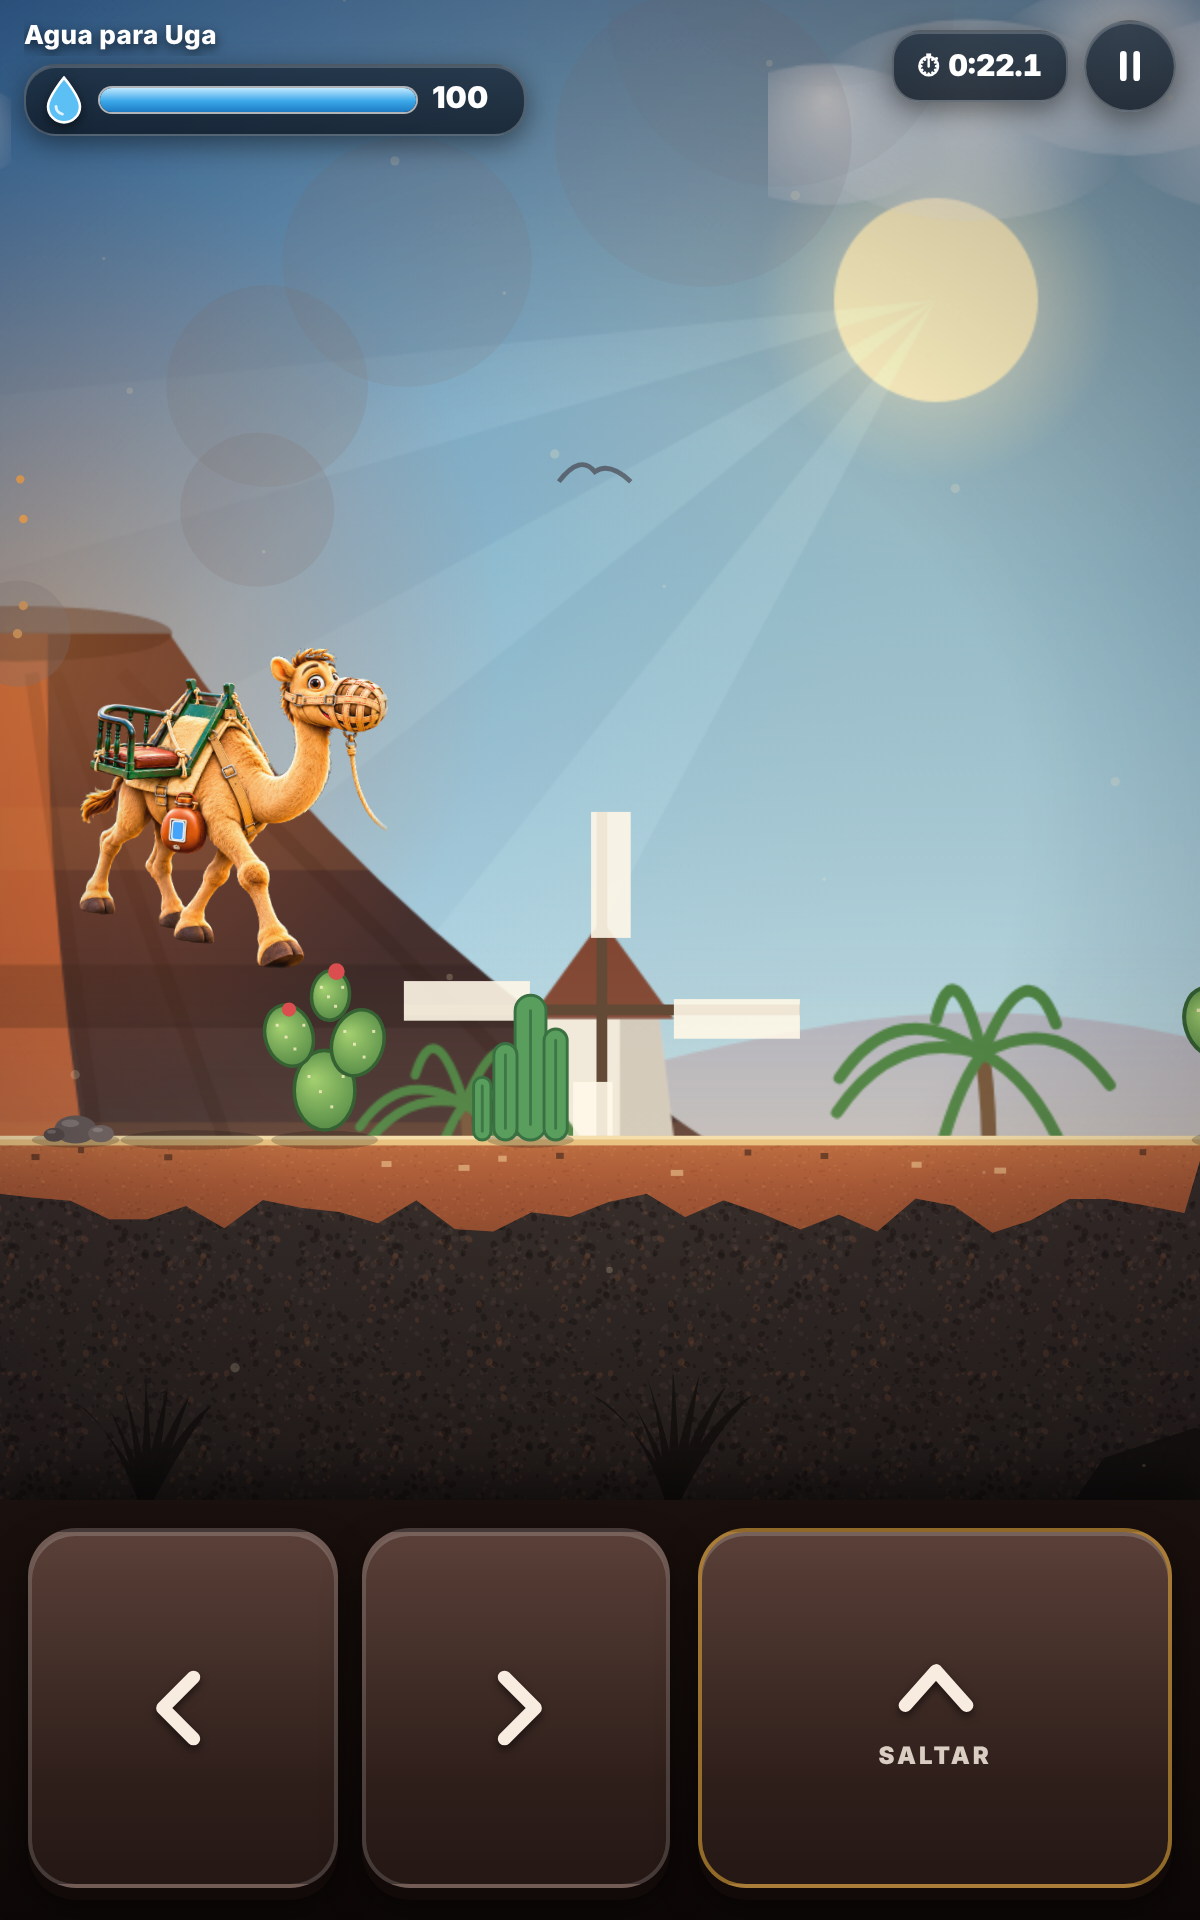
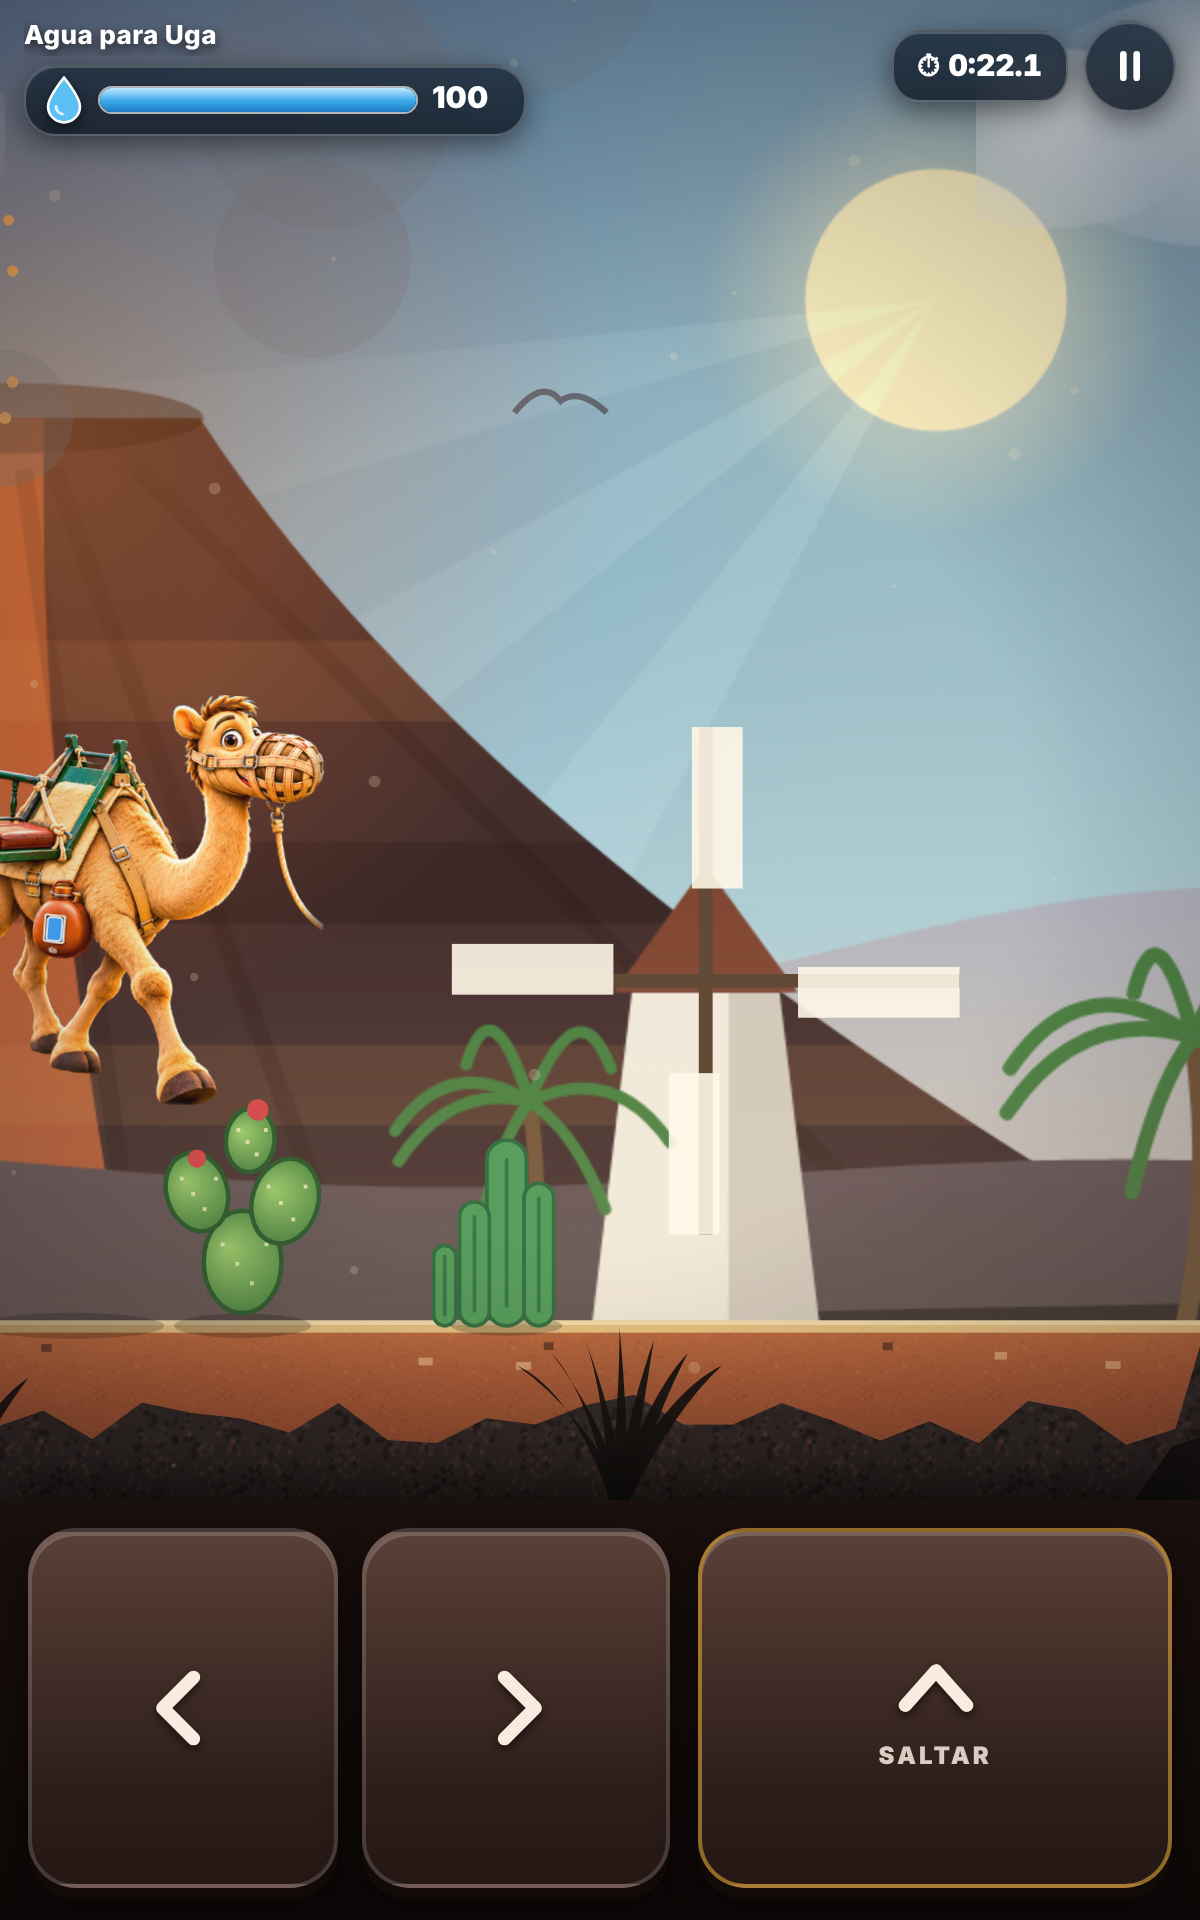
1.8.1: cámara más cercana en vertical (Martín más grande, menos tierra vacía)
Claude-Session: https://claude.ai/code/session_01H2Jf8v1MHtV6zTpVoU4WWj

diff --git a/docs/app/juego.js b/docs/app/juego.js
@@ -155,7 +155,7 @@ function ajustaCanvas() {
   const r = cv.parentNode.getBoundingClientRect(), dpr = Math.min(window.devicePixelRatio || 1, 2.5);
   const w = Math.max(160, Math.round(r.width * dpr)), h = Math.max(120, Math.round(r.height * dpr));
   if (cv.width !== w || cv.height !== h) { cv.width = w; cv.height = h; }
-  const asp = w / h, vw = asp >= 1.4 ? 15 : Math.max(10, 15 - (1.4 - asp) * 9);   // cámara cercana: Martín se ve grande; en vertical, aún más
+  const asp = w / h, vw = asp >= 1.4 ? 15 : Math.max(asp < 1 ? 7.6 : 10, 15 - (1.4 - asp) * 12);   // cámara cercana: Martín se ve grande; en vertical, aún más
   RUN.u = Math.min(w / vw, h / 7.4);
 }
 function dibujar(dt) {
@@ -164,10 +164,10 @@ function dibujar(dt) {
   const W = cv.width, H = cv.height, u = RUN.u, vw = W / u, vh = H / u;
   // cámara: Martín al ~35 % del ancho con un poco de anticipación; vertical suavizado con zona muerta
   const k = 1 - Math.exp(-(dt || 16) / 1000 * 5);
-  let objX = s.x - vw * (W < H ? 0.3 : 0.33) + Math.max(-1, Math.min(1, s.vx / 4)) * 1.4;
+  let objX = s.x - vw * (W < H ? 0.24 : 0.33) + Math.max(-1, Math.min(1, s.vx / 4)) * 1.4;
   objX = Math.max(L.world.min_x - 0.5, Math.min(L.world.max_x - vw + 0.5, objX));
   const piso = s.fase === 'reaparece' ? s.ry : s.y;
-  const idealY = piso - vh * (W < H ? 0.36 : 0.30);
+  const idealY = piso - vh * (W < H ? 0.27 : 0.30);
   if (RUN.camInit !== RUN.idx + ':' + RUN.modo + ':' + RUN.intento) { RUN.camInit = RUN.idx + ':' + RUN.modo + ':' + RUN.intento; RUN.cam.x = objX; RUN.cam.y = idealY; }
   RUN.cam.x += (objX - RUN.cam.x) * Math.min(1, k * 2.4);
   const dz = vh * 0.12; if (idealY - RUN.cam.y > dz) RUN.cam.y += (idealY - dz - RUN.cam.y) * k; else if (RUN.cam.y - idealY > dz) RUN.cam.y += (idealY + dz - RUN.cam.y) * k;

diff --git a/www/juego.js b/www/juego.js
@@ -155,7 +155,7 @@ function ajustaCanvas() {
   const r = cv.parentNode.getBoundingClientRect(), dpr = Math.min(window.devicePixelRatio || 1, 2.5);
   const w = Math.max(160, Math.round(r.width * dpr)), h = Math.max(120, Math.round(r.height * dpr));
   if (cv.width !== w || cv.height !== h) { cv.width = w; cv.height = h; }
-  const asp = w / h, vw = asp >= 1.4 ? 15 : Math.max(10, 15 - (1.4 - asp) * 9);   // cámara cercana: Martín se ve grande; en vertical, aún más
+  const asp = w / h, vw = asp >= 1.4 ? 15 : Math.max(asp < 1 ? 7.6 : 10, 15 - (1.4 - asp) * 12);   // cámara cercana: Martín se ve grande; en vertical, aún más
   RUN.u = Math.min(w / vw, h / 7.4);
 }
 function dibujar(dt) {
@@ -164,10 +164,10 @@ function dibujar(dt) {
   const W = cv.width, H = cv.height, u = RUN.u, vw = W / u, vh = H / u;
   // cámara: Martín al ~35 % del ancho con un poco de anticipación; vertical suavizado con zona muerta
   const k = 1 - Math.exp(-(dt || 16) / 1000 * 5);
-  let objX = s.x - vw * (W < H ? 0.3 : 0.33) + Math.max(-1, Math.min(1, s.vx / 4)) * 1.4;
+  let objX = s.x - vw * (W < H ? 0.24 : 0.33) + Math.max(-1, Math.min(1, s.vx / 4)) * 1.4;
   objX = Math.max(L.world.min_x - 0.5, Math.min(L.world.max_x - vw + 0.5, objX));
   const piso = s.fase === 'reaparece' ? s.ry : s.y;
-  const idealY = piso - vh * (W < H ? 0.36 : 0.30);
+  const idealY = piso - vh * (W < H ? 0.27 : 0.30);
   if (RUN.camInit !== RUN.idx + ':' + RUN.modo + ':' + RUN.intento) { RUN.camInit = RUN.idx + ':' + RUN.modo + ':' + RUN.intento; RUN.cam.x = objX; RUN.cam.y = idealY; }
   RUN.cam.x += (objX - RUN.cam.x) * Math.min(1, k * 2.4);
   const dz = vh * 0.12; if (idealY - RUN.cam.y > dz) RUN.cam.y += (idealY - dz - RUN.cam.y) * k; else if (RUN.cam.y - idealY > dz) RUN.cam.y += (idealY + dz - RUN.cam.y) * k;

diff --git a/docs/app/sw.js b/docs/app/sw.js
@@ -1,7 +1,7 @@
 // Service worker: deja la versión web disponible sin conexión.
 // En la app Android no hace falta (los archivos ya van dentro del APK) y podría servir
 // una versión antigua tras actualizar, así que allí se da de baja solo.
-const CACHE = 'martin-v1.8.0';
+const CACHE = 'martin-v1.8.1';
 const ASSETS = ['./', 'index.html', 'martin.js', 'niveles.js', 'juego.js', 'dibujo.js', 'camello.png', 'manifest.webmanifest', 'icons/icon-192.png', 'icons/icon-512.png', 'icons/icon-maskable-512.png', 'icons/apple-touch-icon.png', 'i18n-en.js', 'i18n-fr.js', 'i18n-de.js', 'i18n-it.js', 'idioma.js', 'masjuegos.js', 'audio-suave.js', 'turno.js', 'contador.js', 'invitacion.js', 'publicas.js', 'juegos/ajedrez.png', 'juegos/chinchon.png', 'juegos/pumba.png', 'juegos/damas.png', 'juegos/parchis.png', 'juegos/poker.png', 'juegos/uno.png', 'juegos/martin.png'];
 const NATIVE = self.location.hostname === 'localhost' && self.location.protocol === 'https:';
 

diff --git a/www/sw.js b/www/sw.js
@@ -1,7 +1,7 @@
 // Service worker: deja la versión web disponible sin conexión.
 // En la app Android no hace falta (los archivos ya van dentro del APK) y podría servir
 // una versión antigua tras actualizar, así que allí se da de baja solo.
-const CACHE = 'martin-v1.8.0';
+const CACHE = 'martin-v1.8.1';
 const ASSETS = ['./', 'index.html', 'martin.js', 'niveles.js', 'juego.js', 'dibujo.js', 'camello.png', 'manifest.webmanifest', 'icons/icon-192.png', 'icons/icon-512.png', 'icons/icon-maskable-512.png', 'icons/apple-touch-icon.png', 'i18n-en.js', 'i18n-fr.js', 'i18n-de.js', 'i18n-it.js', 'idioma.js', 'masjuegos.js', 'audio-suave.js', 'turno.js', 'contador.js', 'invitacion.js', 'publicas.js', 'juegos/ajedrez.png', 'juegos/chinchon.png', 'juegos/pumba.png', 'juegos/damas.png', 'juegos/parchis.png', 'juegos/poker.png', 'juegos/uno.png', 'juegos/martin.png'];
 const NATIVE = self.location.hostname === 'localhost' && self.location.protocol === 'https:';
 

diff --git a/docs/app/index.html b/docs/app/index.html
@@ -406,7 +406,7 @@ function openThemes() {
   AvisoTurno.enlazar();
 }
 
-const APP_VERSION = '1.8.0';
+const APP_VERSION = '1.8.1';
 const REPO = 'csuarezsm/Martin';
 const MAX_ARCHIVE = 500;
 const uid = () => Math.random().toString(36).slice(2, 10);

diff --git a/www/index.html b/www/index.html
@@ -406,7 +406,7 @@ function openThemes() {
   AvisoTurno.enlazar();
 }
 
-const APP_VERSION = '1.8.0';
+const APP_VERSION = '1.8.1';
 const REPO = 'csuarezsm/Martin';
 const MAX_ARCHIVE = 500;
 const uid = () => Math.random().toString(36).slice(2, 10);

diff --git a/README.md b/README.md
@@ -2,7 +2,7 @@
 
 Un camello canario joven de Uga lleva el agua por los caminos que dejó la tormenta: lava, rocas, huecos y bajadas. **6 niveles de plataformas** con tres estrellas cada uno, a veces con dos caminos (uno rápido y arriesgado, otro lento y seguro), y un **reto diario** igual para todos con ranking.
 Para Android e iPhone. Gratis, sin anuncios y sin cuentas. App Capacitor + web (`www/`). Todo se guarda en el móvil; solo el reto diario usa el servidor de juegos (nombre y pulsaciones, para comprobar el tiempo).
-Paquete: `com.itcanarias.martin` · versión 1.8.0
+Paquete: `com.itcanarias.martin` · versión 1.8.1
 
 **iPhone y navegadores**: la misma app se publica como versión web instalable en https://csuarezsm.github.io/Martin/app/ (GitHub Pages, carpeta `docs/app`, copia de `www/`). En Safari: Compartir → «Añadir a pantalla de inicio». Tras cambiar `www/`, ejecuta `npm run web`.
 
